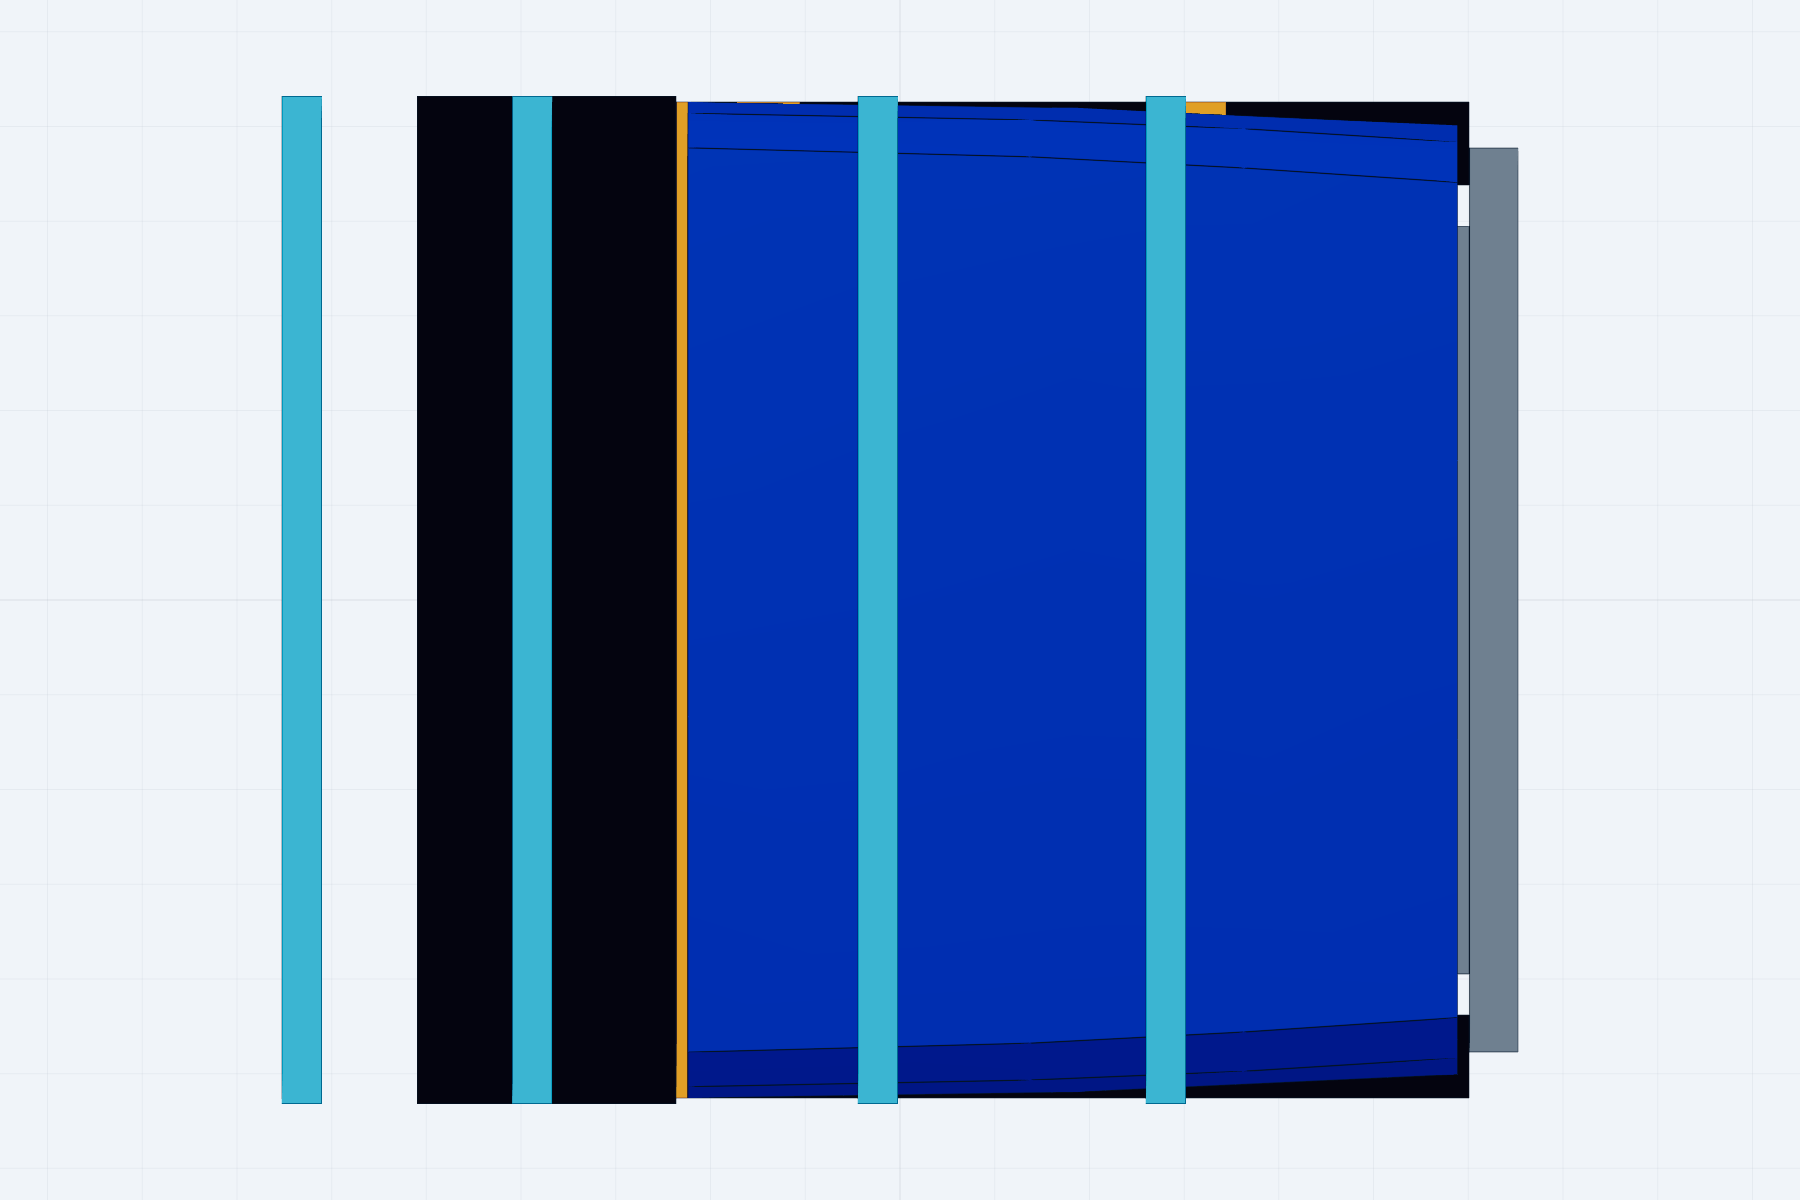
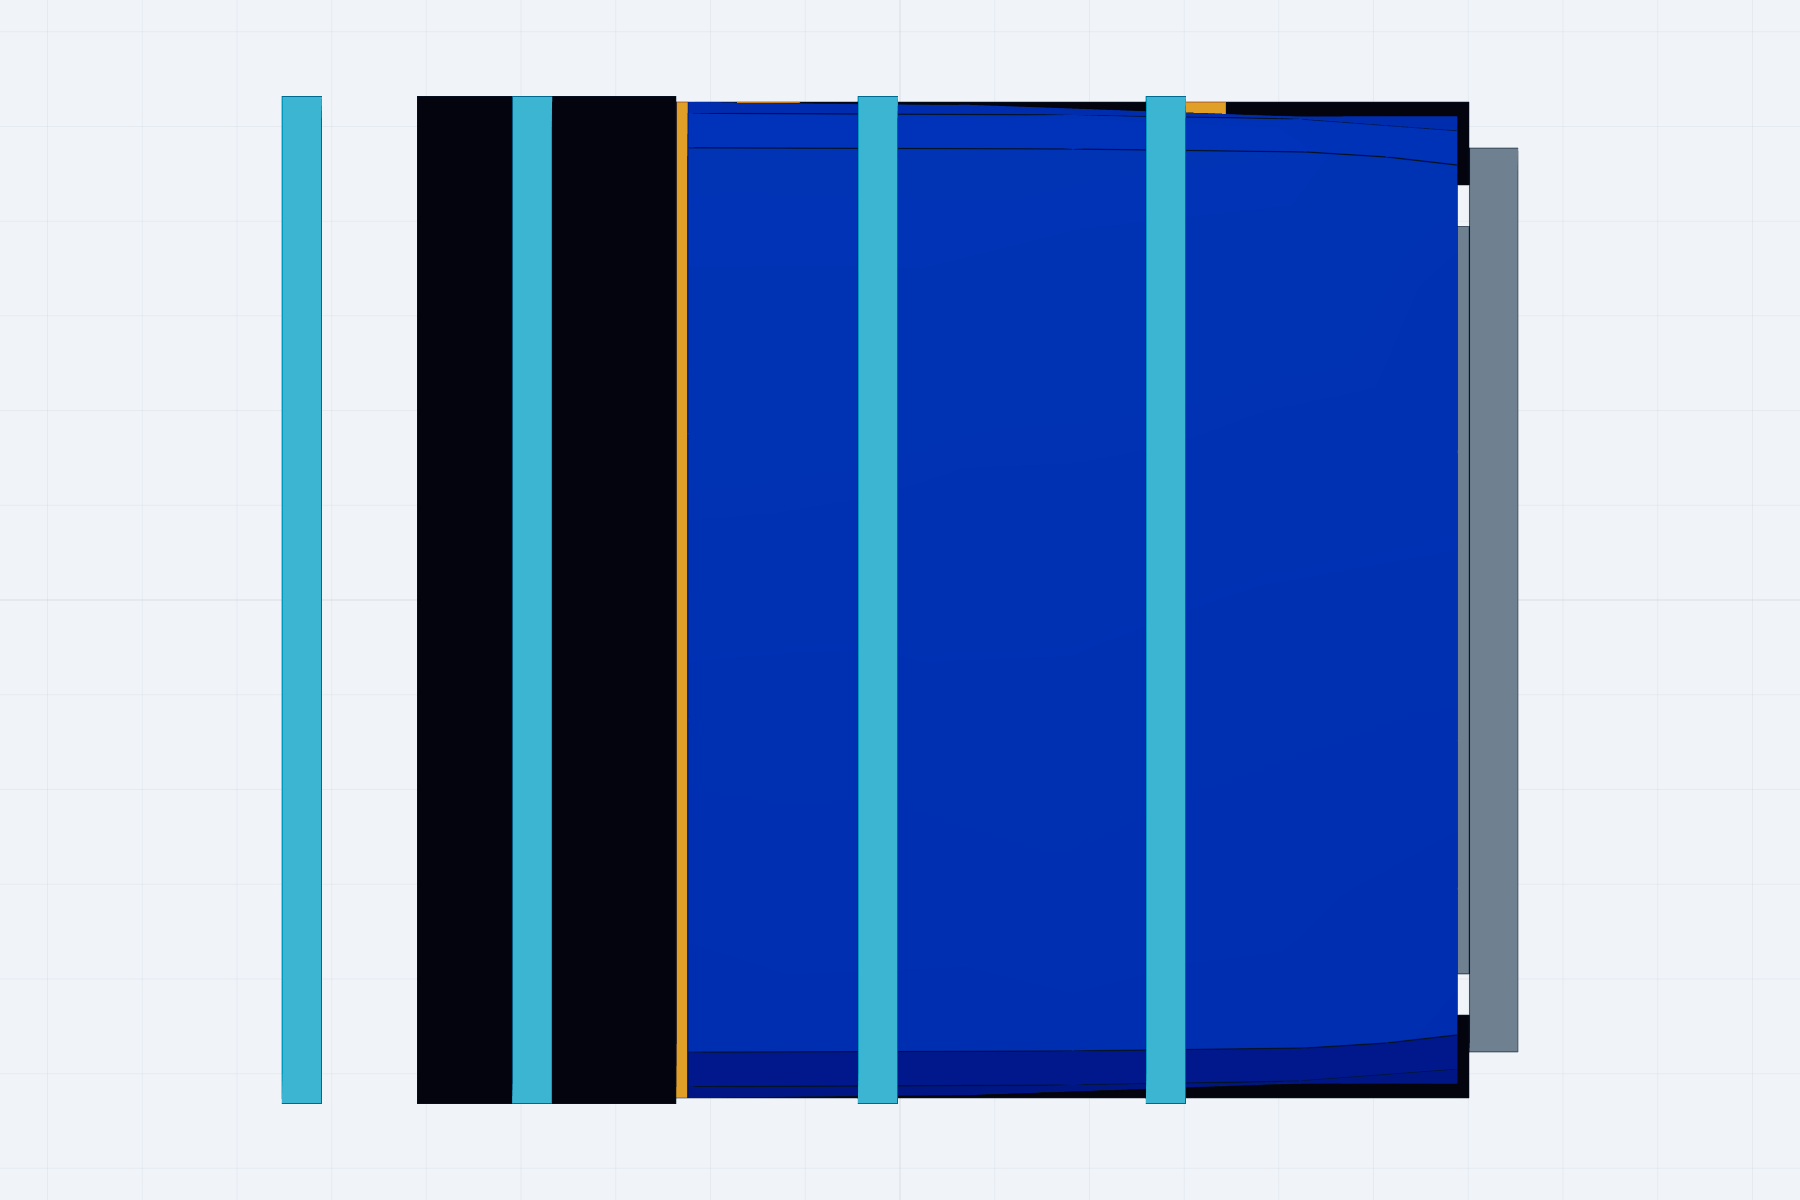
cad: match topper roof to R1S silhouette

diff --git a/models/r1t_topper/cad/parameters.py b/models/r1t_topper/cad/parameters.py
@@ -175,22 +175,26 @@ topper_front_height = Parameter(
     "cab curvature and trailing roof section remain scan-required",
 )
 topper_rear_height = Parameter(
-    735.0, "mm", DESIGN_DECISION, "provisional gentle rearward fall"
+    745.0,
+    "mm",
+    DESIGN_DECISION,
+    "provisional R1S-like rear roof-corner drop",
+    "visual estimate; the roof stays nearly level ahead of the rear corner",
 )
 roof_crown = Parameter(35.0, "mm", DESIGN_DECISION, "provisional drainage crown")
 topper_silhouette_stations = Parameter(
     (
         # x fraction, height, base width, shoulder width, roof width, crown
         (0.00, 760.0, 1730.0, 1690.0, 1570.0, 35.0),
-        (0.22, 758.0, 1724.0, 1682.0, 1558.0, 34.0),
-        (0.52, 751.0, 1708.0, 1660.0, 1530.0, 32.0),
-        (0.78, 743.0, 1680.0, 1628.0, 1490.0, 30.0),
-        (1.00, 735.0, 1648.0, 1590.0, 1450.0, 28.0),
+        (0.22, 759.0, 1724.0, 1688.0, 1569.0, 35.0),
+        (0.52, 758.0, 1708.0, 1684.0, 1566.0, 35.0),
+        (0.78, 755.0, 1680.0, 1672.0, 1558.0, 34.0),
+        (1.00, 745.0, 1680.0, 1630.0, 1510.0, 32.0),
     ),
     "(length fraction, mm height, mm widths, mm crown)",
     ESTIMATED,
-    "visual approximation from Rivian owner-guide imagery and a CC-BY 2022 R1T artist mesh preview",
-    "replace station dimensions from common-coordinate scan slices before fitment work",
+    "visual approximation from operator-supplied R1S side and rear reference screenshots",
+    "near-parallel roof edges and a localized rear-corner taper; replace with registered scan slices",
 )
 rear_hatch_opening_width = Parameter(1450.0, "mm", DESIGN_DECISION, "provisional")
 rear_hatch_opening_height = Parameter(620.0, "mm", DESIGN_DECISION, "provisional")

diff --git a/models/r1t_topper/cad/phase2_checks.py b/models/r1t_topper/cad/phase2_checks.py
@@ -39,6 +39,12 @@ def run() -> None:
     assert all(a[0] < b[0] for a, b in zip(stations, stations[1:]))
     assert all(a[1] >= b[1] for a, b in zip(stations, stations[1:]))
     assert all(a[2] >= b[2] for a, b in zip(stations, stations[1:]))
+    # The R1S visual surrogate stays nearly parallel and level through the
+    # bed, then concentrates its taper in the final rear-corner segment.
+    assert stations[0][1] - stations[-2][1] <= 5.0
+    assert stations[-2][1] - stations[-1][1] >= 10.0
+    assert stations[0][4] - stations[-2][4] <= 12.0
+    assert stations[-2][4] - stations[-1][4] >= 40.0
     assert topper_silhouette_stations.provenance == "ESTIMATED"
     _close(stations[0][1], value(topper_front_height))
     _close(stations[-1][1], value(topper_rear_height))

diff --git a/models/r1t_topper/reports/VALIDATION_REPORT.md b/models/r1t_topper/reports/VALIDATION_REPORT.md
@@ -17,6 +17,9 @@ Status: **PASS for conceptual envelope review only**
 - `cad/phase2_checks.py` verifies:
   - five ordered silhouette sections taper monotonically in height and base
     width from front to rear and remain tagged `ESTIMATED`;
+  - roof height and width remain nearly constant through the 78% station, with
+    the visible narrowing and drop concentrated in the final rear-corner
+    segment;
   - the master envelope spans `X=20..1357 mm`, leaving the intentional
     conceptual `20 mm` front and rear clearances within the `1377 mm`
     manufacturer-reference bed length;
@@ -31,9 +34,9 @@ Status: **PASS for conceptual envelope review only**
 - Stable occurrence references were confirmed for the bed, cab, tailgate,
   cab/topper keep-out, anchors, four crossbars, and coordinate artifact.
 - Six regenerated snapshots were visually reviewed. The master envelope is one
-  coherent blue concept volume with rounded crown/shoulders and a modest
-  rearward width/height taper; the cyan rail/crossbar references remain visibly
-  distinct placeholders.
+  coherent blue concept volume with rounded crown/shoulders, an R1S-like level
+  roof continuation, and a localized rear-corner taper; the cyan rail/crossbar
+  references remain visibly distinct placeholders.
 
 ## Intent review
 
@@ -45,7 +48,7 @@ Status: **PASS for conceptual envelope review only**
 | Crossbar reference elevations are consistent | PASS |
 | All crossbars are transverse, left-to-right along Y | PASS |
 | Concept volume occupies the intended bed-length envelope | PASS |
-| Estimated silhouette is symmetric and visually tapered | PASS |
+| Estimated silhouette is symmetric and visually R1S-like | PASS |
 | Concept volume remains visibly distinct from scan-required references | PASS |
 | Production cab-roof continuation and curvature | NOT TESTED — scan required |
 
@@ -57,6 +60,7 @@ values come from Rivian's September 2025 R1T Upfitting Guide and require
 confirmation on the target 2022 Gen 1 vehicle. The cab and bed rails remain
 intentionally crude block envelopes. The master topper is a solid design-volume
 proxy, not a shell, mold surface, mounting system, or clearance proof. This
+visual match is based on perspective screenshots, not measured sections. This
 report does not claim fitment, structural capacity, legal compliance,
 aerodynamic performance, electronics compatibility, manufacturability, or
 production readiness.

diff --git a/models/r1t_topper/references/visual_reference_sources.md b/models/r1t_topper/references/visual_reference_sources.md
@@ -3,6 +3,10 @@
 These sources inform the editable Phase 2 silhouette station table. They do
 not establish mounting, clearance, or production body geometry.
 
+- Five operator-supplied R1S screenshots dated 2026-07-27, including direct
+  side, front, and rear views plus rear three-quarter views. These are the
+  primary references for the nearly level longitudinal roofline, parallel roof
+  edges, shallow crown, rounded upper corners, and localized rear-corner taper.
 - Rivian, *R1T Owner's Guide, Model Year 2022–2024*, exterior and truck-bed
   overview illustrations:
   <https://assets.rivian.com/2md5qhoeajym/530xs9hu11xOKefT2JrvA5/46f6cb5d5756b8320d3eb494a902e66c/r1t-og-en-us-20240527.pdf>
@@ -12,7 +16,9 @@ not establish mounting, clearance, or production body geometry.
   `89ec895feb8145768f93382f356affb5`, 308,001 triangles, licensed CC BY 4.0:
   <https://sketchfab.com/3d-models/rivian-r1t-2022-free-89ec895feb8145768f93382f356affb5>
 
-The Sketchfab asset is an artist mesh, not a scan or manufacturer CAD model.
-It is used only as a visual proportion cross-check and is not redistributed in
-this repository. A later vehicle scan should replace the numeric section rows
-in `cad/parameters.py` while preserving the loft and assembly workflow.
+The screenshots are perspective images, and the Sketchfab asset is an artist
+mesh rather than a scan or manufacturer CAD model. Neither can establish
+dimensions or fit. The artist mesh is used only as a visual proportion
+cross-check and is not redistributed in this repository. A later vehicle scan
+should replace the numeric section rows in `cad/parameters.py` while preserving
+the loft and assembly workflow.

diff --git a/models/r1t_topper/reports/DESIGN_DECISIONS.md b/models/r1t_topper/reports/DESIGN_DECISIONS.md
@@ -15,12 +15,12 @@
   remains provisional until the target truck is measured.
 - Phase 2 adds one translucent, closed master-envelope volume for silhouette
   review. Its 20 mm front/rear clearances, rail-width match, roof crown,
-  profile taper, and rearward fall are design decisions—not production fitment
-  claims.
-- Five editable cross-sections now approximate the R1T/R1S visual language:
-  nearly vertical lower sides, eased shoulders, a shallow roof crown, and a
-  modest rearward width/height taper. Their dimensions are `ESTIMATED` visual
-  inputs designed to be replaced row-for-row by scan slices.
+  and rear-corner treatment are design decisions—not production fitment claims.
+- Five editable cross-sections now approximate the R1S upper-body silhouette
+  over the R1T bed: nearly vertical lower sides, eased shoulders, a shallow
+  roof crown, and a roofline/plan outline that stays almost parallel before
+  narrowing and dropping locally at the rear corner. Their dimensions are
+  `ESTIMATED` visual inputs designed to be replaced row-for-row by scan slices.
 - Detailed shell offsets, modules, hatch, seals, joints, hardpoints, controls,
   ports, anchors, and mounting geometry remain intentionally absent until scan
   data establishes the vehicle interfaces.

diff --git a/models/r1t_topper/reports/OPEN_ITEMS.md b/models/r1t_topper/reports/OPEN_ITEMS.md
@@ -9,12 +9,12 @@
   2025 upfitting guide.
 - Replace the block cab envelope with scanned rear-wall and roof-trailing
   sections. The provisional rear-surface angle is not yet applied.
-- Replace the conceptual topper width, front height, crown, taper, and
-  front/rear clearances only after the bed rails and cab trailing section are
-  captured in one scan coordinate system.
+- Replace the conceptual topper width, front height, crown, R1S-like roofline
+  and rear-corner taper, and front/rear clearances only after the bed rails and
+  cab trailing section are captured in one scan coordinate system.
 - Replace all five visual silhouette station rows with registered scan sections;
-  the present rows are intentionally editable estimates, not reverse-engineered
-  body surfaces.
+  the present rows are editable estimates traced from perspective reference
+  images, not reverse-engineered body surfaces.
 - Confirm tailgate and rear-light swept envelopes.
 - Confirm all bed-anchor, control-button, and factory-crossbar interfaces.
 - Determine the engineered cab/topper shadow-gap or aerodynamic bridge only

diff --git a/models/r1t_topper/README.md b/models/r1t_topper/README.md
@@ -55,11 +55,12 @@ topper solid is an external silhouette/design volume only; it is not a shell or
 mold surface. No hatch mechanism, module interface, structure, load rating,
 mounting geometry, seal, or tooling exists yet.
 
-The visual surrogate is driven by five editable cross-sections in
+The R1S-like visual surrogate is driven by five editable cross-sections in
 `cad/parameters.py`. See `references/visual_reference_sources.md` for the
-official imagery and CC-BY artist mesh used only as proportion references.
-Replace those section rows with common-coordinate scan slices later; the loft,
-assembly, export, and validation workflow can remain unchanged.
+operator-supplied R1S screenshots, official imagery, and CC-BY artist mesh used
+only as proportion references. Replace those section rows with
+common-coordinate scan slices later; the loft, assembly, export, and validation
+workflow can remain unchanged.
 
 ## CAD Explorer / CAD Viewer
 
